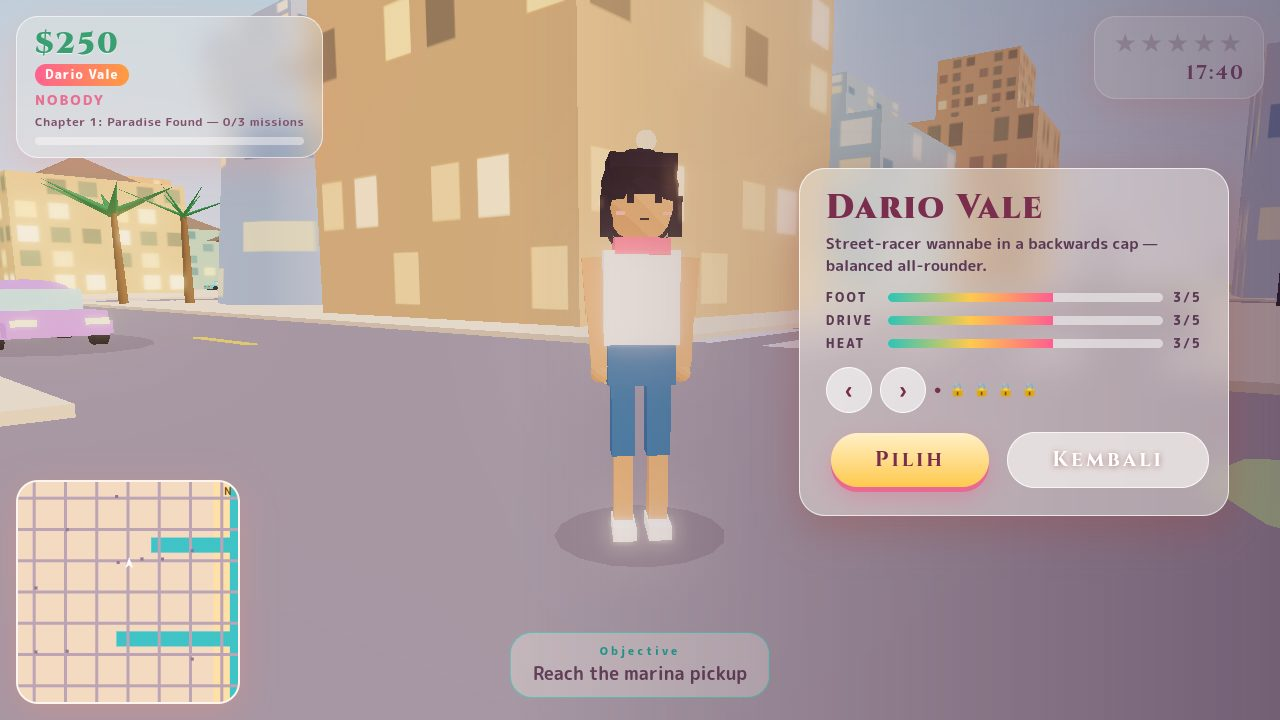
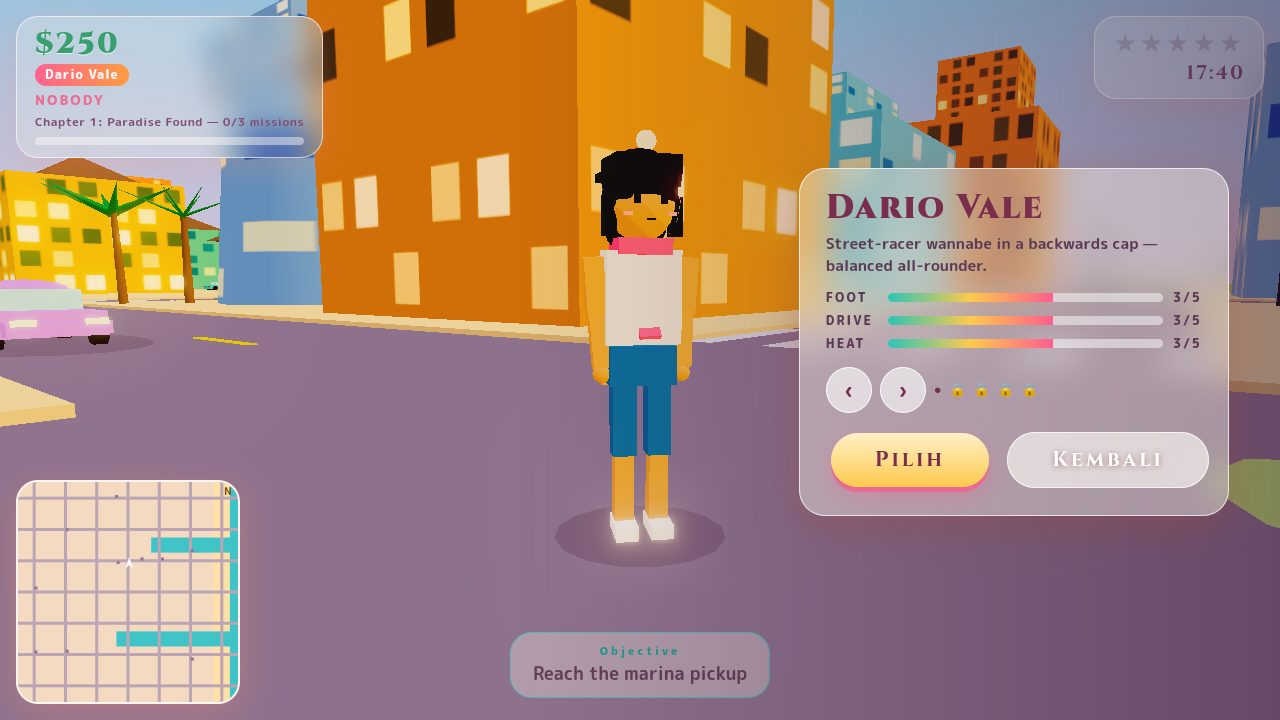
Fog + colour punch: fog 420-1150, deeper sky gradient, saturated palette/glass/hotel tints, punchier water + reflection streaks, saturation/contrast grade pass

diff --git a/game/src/city.js b/game/src/city.js
@@ -9,9 +9,9 @@ function facadeTextures() {
   // Large windows (4x8 grid) and varied lit ratios so buildings do not read
   // as a dense checkerboard.
   const W = 128, H = 256, cols = 3, rows = 5;
-  const wallBases = ['#fff6ea', '#ffefe0', '#f2fbf5', '#fff8ec'];
+  const wallBases = ['#ffeeda', '#ffe6cf', '#e2f7e9', '#ffefd4'];
   const litRatios = [0.10, 0.16, 0.24, 0.32];
-  const unlitCols = ['#a8c8d8', '#9fb8cc', '#b8c4d8', '#a8c8d8'];
+  const unlitCols = ['#6fa8c4', '#5f96bd', '#7fa6c9', '#6fa8c4'];
   const litCols = ['#ffe9a8', '#ffd98a', '#fff3c4'];
   const mk = (c) => { const t = new THREE.CanvasTexture(c); t.wrapS = t.wrapT = THREE.RepeatWrapping; t.colorSpace = THREE.SRGBColorSpace; return t; };
   const variants = [];
@@ -73,11 +73,11 @@ export function buildCity(scene, rng) {
 
   // --- sky, fog, lights -------------------------------------------------
   scene.background = new THREE.Color(PALETTE.sky);
-  scene.fog = new THREE.Fog(PALETTE.fog, 150, 560);
+  scene.fog = new THREE.Fog(PALETTE.fog, 420, 1150);
   const gradC = document.createElement('canvas'); gradC.width = 4; gradC.height = 256;
   const gx = gradC.getContext('2d');
   const grad = gx.createLinearGradient(0, 0, 0, 256);
-  grad.addColorStop(0, '#2f9be8'); grad.addColorStop(0.34, '#79c4ec'); grad.addColorStop(0.58, '#f2c4d4'); grad.addColorStop(0.8, '#ffd9a8'); grad.addColorStop(1, '#fff0c8');
+  grad.addColorStop(0, '#1e7cd9'); grad.addColorStop(0.34, '#4fb0ee'); grad.addColorStop(0.58, '#f7a8c4'); grad.addColorStop(0.8, '#ffc98a'); grad.addColorStop(1, '#ffe9b0');
   gx.fillStyle = grad; gx.fillRect(0, 0, 4, 256);
   const gradTex = new THREE.CanvasTexture(gradC); gradTex.colorSpace = THREE.SRGBColorSpace;
   const skyDome = new THREE.Mesh(
@@ -93,7 +93,7 @@ export function buildCity(scene, rng) {
   group.add(sunSprite);
 
   scene.add(new THREE.HemisphereLight(PALETTE.hemiSky, PALETTE.hemiGround, 1.6));
-  const sun = new THREE.DirectionalLight(PALETTE.sun, 2.2);
+  const sun = new THREE.DirectionalLight(PALETTE.sun, 2.4);
   sun.position.set(120, 140, -80);
   sun.castShadow = true;
   sun.shadow.mapSize.set(1024, 1024);
@@ -143,7 +143,7 @@ export function buildCity(scene, rng) {
   const walkMat = new THREE.MeshLambertMaterial({ color: PALETTE.sidewalk });
   const walkGeo = new THREE.BoxGeometry(CONFIG.BLOCK + 4, 0.22, CONFIG.BLOCK + 4);
   const boxGeo = new THREE.BoxGeometry(1, 1, 1);
-  const roofMat = new THREE.MeshLambertMaterial({ color: 0x8a7468 });
+  const roofMat = new THREE.MeshLambertMaterial({ color: 0x7d5f4d });
   let neonIdx = 0;
   const neonSigns = [];
   for (const bx of CONFIG.BLOCK_CENTERS) {
@@ -162,7 +162,7 @@ export function buildCity(scene, rng) {
         const peninsula = bx >= 81 && Math.abs(bz) <= 27; // tallest glass cluster, between the channels
         const residential = bx <= -81; // greener, lower west edge
         const h = peninsula ? 36 + rng() * 26 : downtown ? 22 + rng() * 23 : residential ? 6 + rng() * 8 : 8 + rng() * 20;
-        const glassTints = [0x9fd8e8, 0x7ec8e8, 0xbde8ff, 0xe8f4ff, 0xa8e6e0];
+        const glassTints = [0x6fcbe8, 0x3fb6e8, 0x8fd8ff, 0xcfeaff, 0x5fe0d0];
         const tint = peninsula
           ? glassTints[Math.floor(rng() * glassTints.length)]
           : PALETTE.buildingPastels[Math.floor(rng() * PALETTE.buildingPastels.length)];
@@ -330,7 +330,7 @@ export function buildCity(scene, rng) {
   sand.rotation.x = -Math.PI / 2; sand.position.set(168, 0.03, 0); group.add(sand);
 
   const waterMat = new THREE.MeshPhongMaterial({
-    color: PALETTE.water, transparent: true, opacity: 0.86, shininess: 160, specular: 0xfff0c8,
+    color: PALETTE.water, transparent: true, opacity: 0.92, shininess: 160, specular: 0xfff0c8,
   });
   const water = new THREE.Mesh(new THREE.PlaneGeometry(320, 420), waterMat);
   water.rotation.x = -Math.PI / 2; water.position.set(CONFIG.WATER_X + 158, 0.12, 0);
@@ -346,7 +346,7 @@ export function buildCity(scene, rng) {
   }
   // --- beachfront hotels: white/cream mid-rises along the ocean strip --------
   {
-    const hotelTints = [0xffffff, 0xfff3e0, 0xffe9ec, 0xe8f4ff, 0xfff8d6];
+    const hotelTints = [0xfff6e8, 0xffe9c4, 0xffd3dc, 0xcfe6ff, 0xfff0a8];
     for (const bz of CONFIG.BLOCK_CENTERS) {
       if (bz === 81 || bz === -81) continue; // channel rows
       const peninsulaRow = Math.abs(bz) <= 27;
@@ -395,7 +395,7 @@ export function buildCity(scene, rng) {
         st.rotation.x = -Math.PI / 2;
         st.position.set(ch.minX + 8 + rng() * (len - 16), 0.17, ch.minZ + 3 + rng() * (wid - 6));
         st.scale.set(10 + rng() * 18, 0.9 + rng() * 1.1, 1);
-        group.add(st); streaks.push({ m: st.material, base: 0.16 + rng() * 0.2, ph: rng() * 6 });
+        group.add(st); streaks.push({ m: st.material, base: 0.24 + rng() * 0.22, ph: rng() * 6 });
       }
     }
     // ocean streaks: skyline reflections east of the peninsula + sun glint path
@@ -407,7 +407,7 @@ export function buildCity(scene, rng) {
       st.position.set(glint ? 190 + rng() * 90 : 184 + rng() * 42, 0.17, glint ? -20 - rng() * 90 : -70 + rng() * 150);
       st.scale.set(1 + rng() * 1.4, 7 + rng() * 11, 1);
       if (glint) st.rotation.z = 0.45;
-      group.add(st); streaks.push({ m: st.material, base: 0.18 + rng() * 0.22, ph: rng() * 6 });
+      group.add(st); streaks.push({ m: st.material, base: 0.26 + rng() * 0.24, ph: rng() * 6 });
     }
   }
 
@@ -417,7 +417,7 @@ export function buildCity(scene, rng) {
   function update(dt) {
     t += dt;
     water.position.y = 0.12 + Math.sin(t * 0.7) * 0.05;
-    waterMat.opacity = 0.82 + Math.sin(t * 0.45) * 0.05;
+    waterMat.opacity = 0.9 + Math.sin(t * 0.45) * 0.04;
     waterMat.specular.setHSL(0.09, 0.7, 0.55 + Math.sin(t * 1.3) * 0.18); // animated shimmer
     for (const cl of clouds) { cl.position.x += dt * 1.1; if (cl.position.x > 300) cl.position.x = -300; }
     for (let i = 0; i < streaks.length; i++) streaks[i].m.opacity = streaks[i].base * (0.72 + 0.28 * Math.sin(t * 1.4 + streaks[i].ph));

diff --git a/game/src/main.js b/game/src/main.js
@@ -15,6 +15,7 @@ import { EffectComposer } from 'three/addons/postprocessing/EffectComposer.js';
 import { RenderPass } from 'three/addons/postprocessing/RenderPass.js';
 import { UnrealBloomPass } from 'three/addons/postprocessing/UnrealBloomPass.js';
 import { OutputPass } from 'three/addons/postprocessing/OutputPass.js';
+import { ShaderPass } from 'three/addons/postprocessing/ShaderPass.js';
 
 const params = new URLSearchParams(location.search);
 const SHOT = params.get('shot');
@@ -42,6 +43,36 @@ const composer = new EffectComposer(renderer);
 composer.addPass(new RenderPass(scene, camera));
 const bloom = new UnrealBloomPass(new THREE.Vector2(innerWidth, innerHeight), 0.35, 0.55, 0.85);
 composer.addPass(bloom);
+// vivid colour grade: gentle contrast lift + saturation boost before output
+const gradePass = new ShaderPass({
+  uniforms: {
+    tDiffuse: { value: null },
+    saturation: { value: 1.22 },
+    contrast: { value: 1.06 },
+  },
+  vertexShader: /* glsl */`
+    varying vec2 vUv;
+    void main() {
+      vUv = uv;
+      gl_Position = projectionMatrix * modelViewMatrix * vec4(position, 1.0);
+    }
+  `,
+  fragmentShader: /* glsl */`
+    uniform sampler2D tDiffuse;
+    uniform float saturation;
+    uniform float contrast;
+    varying vec2 vUv;
+    void main() {
+      vec4 texel = texture2D(tDiffuse, vUv);
+      vec3 color = texel.rgb;
+      color = (color - 0.5) * contrast + 0.5;
+      float luminance = dot(color, vec3(0.2126, 0.7152, 0.0722));
+      color = mix(vec3(luminance), color, saturation);
+      gl_FragColor = vec4(color, texel.a);
+    }
+  `,
+});
+composer.addPass(gradePass);
 composer.addPass(new OutputPass());
 function renderFrame() { composer.render(); }
 addEventListener('resize', () => {

diff --git a/game/src/config.js b/game/src/config.js
@@ -1,4 +1,4 @@
-// VELORA BAY — shared constants: city grid, golden-hour pastel palette, tuning, toon shading.
+// VELORA BAY — shared constants: city grid, golden-hour vivid-grade pastel palette, tuning, toon shading.
 // The city is a regular grid: 14 m streets on a 54 m pitch, 40 m blocks between them.
 // Street centrelines sit at multiples of 54 offset by -162, block centres between them.
 import * as THREE from 'three';
@@ -36,20 +36,20 @@ export const CONFIG = {
 };
 
 export const PALETTE = {
-  sky: 0xffc9a3,
-  fog: 0xffd9b3,
-  sun: 0xffe0b0,
+  sky: 0xffb877,
+  fog: 0xffc490,
+  sun: 0xffd28a,
   hemiSky: 0xbfe3ff,
-  hemiGround: 0xffd9b3,
-  ground: 0x9db38a,
-  sand: 0xffe3a8,
-  asphalt: 0x8a8296,
-  sidewalk: 0xf2dcc3,
-  water: 0x35c4c9,
+  hemiGround: 0xffc490,
+  ground: 0x86b06c,
+  sand: 0xffd98a,
+  asphalt: 0x776f8c,
+  sidewalk: 0xf5cf9f,
+  water: 0x0fb2cc,
   gold: 0xffc94d,
   pink: 0xff5d8f,
   teal: 0x2ec4b6,
-  buildingPastels: [0xffc7d6, 0xffe3a3, 0xb5e8d5, 0xc3d4ff, 0xffc48f, 0xaeeadd, 0xfff3e0, 0xbde8ff, 0xffd9b8, 0xd8f2b0],
+  buildingPastels: [0xff9ebb, 0xffcf4d, 0x63e0bb, 0x8fb4ff, 0xff9a62, 0x6fe3d0, 0xffe3b3, 0x7fd4ff, 0xffbe86, 0xb8ec6a],
 };
 
 // Miami layout: two water channels cut into the land from the eastern ocean,
